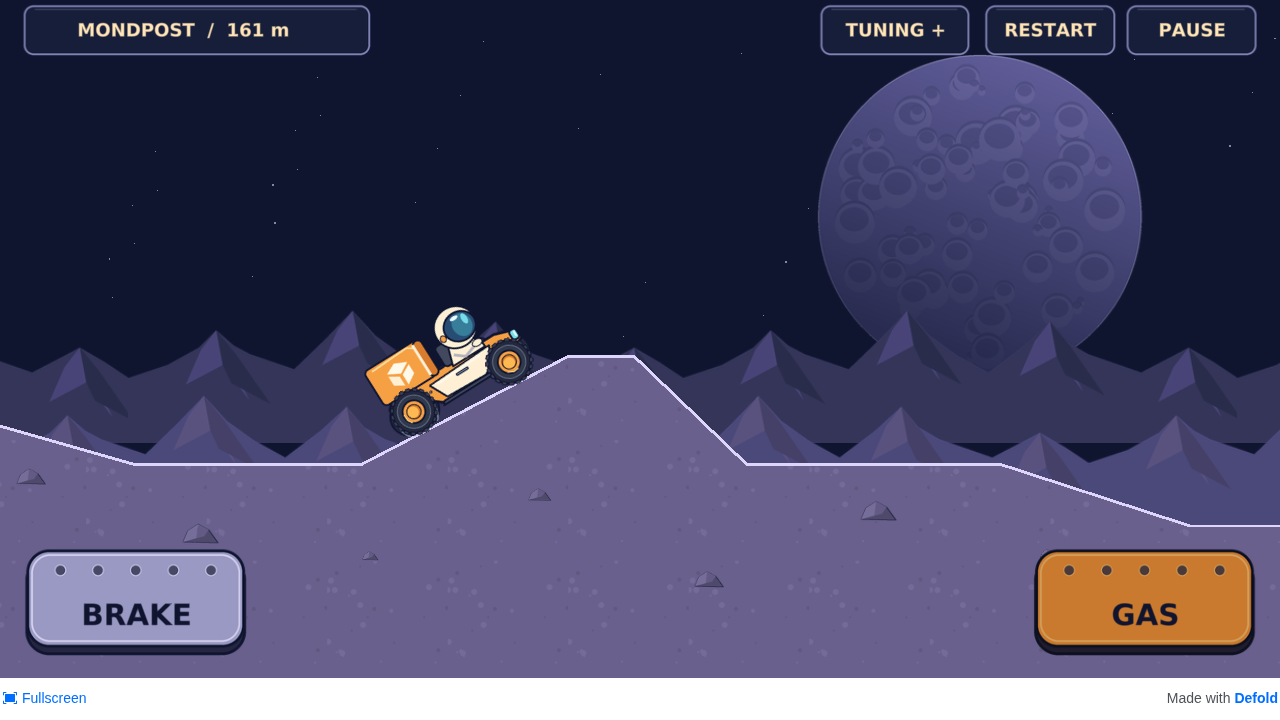
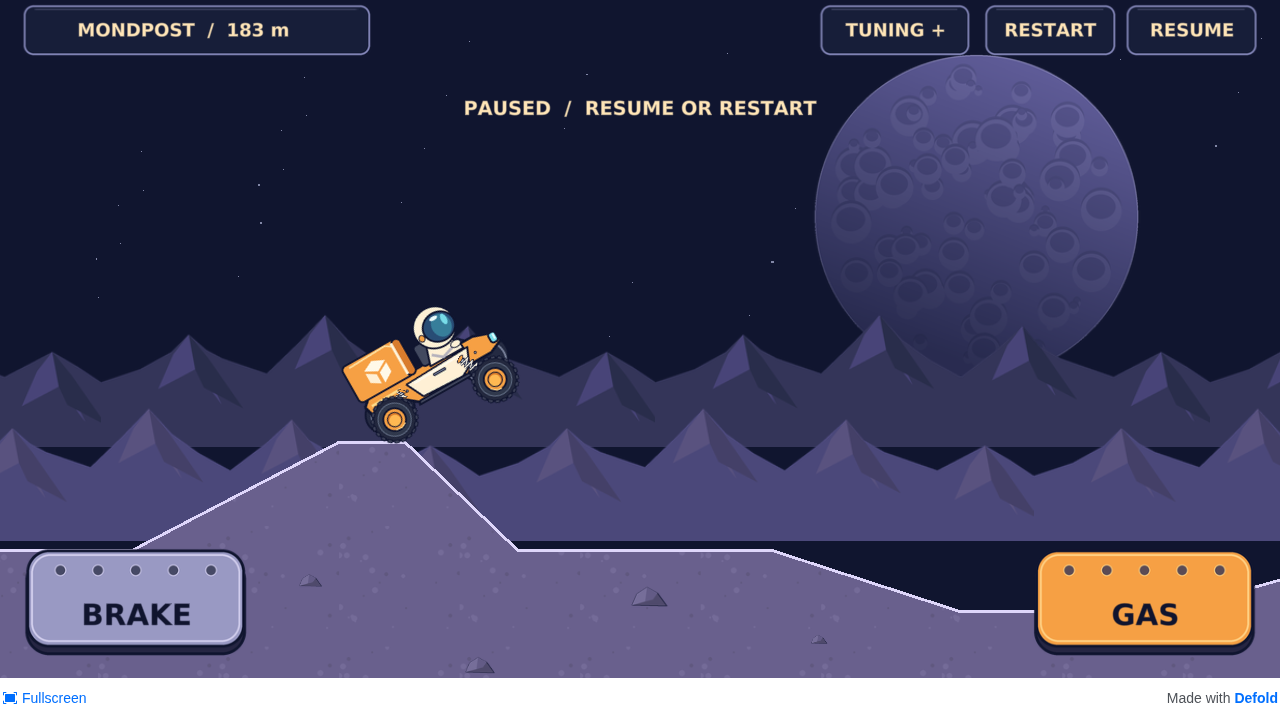
Verify visible springs, frozen review poses and compact tuning controls

diff --git a/main/spring.go b/main/spring.go
@@ -1,0 +1,1 @@
+components { id: "sprite" component: "/main/spring.sprite" }

diff --git a/docs/validation.md b/docs/validation.md
@@ -47,3 +47,17 @@ The migration changes tires to the v3 shape friction API and creates explicitly 
 Cloud build diagnosis: Bob's Extender client ignores HTTPS_PROXY and failed direct network access. The loopback bridge now uses the platform HTTPS proxy and verifies TLS to the fixed official build service. No verification was disabled. Empty outdated example-manifest fields rejected by the service were removed.
 
 Migration validation: all four checks passed on candidate 1cbf321 in GitHub run 38427440395. Local matching Playwright Headless Shell 156 then passed the complete regression: 342 m finish, 254 airborne fixed steps and six landings, moving suspension, air braking, repeated restarts, focus/pause/resume, tuning and simultaneous touch. The original local fixed-wall-time acceleration check was unstable with system Chromium and a full Chrome test binary under software rendering. Acceleration/braking now wait with bounded timeouts for the same motion thresholds; no thresholds or feature assertions were removed. Use Playwright's managed headless browser for matching local/CI results. Mobile performance and real-device feel remain open.
+
+## Mondpost visual correction (PR #12)
+
+Both owner concepts were visually inspected before asset work. Original downloads are unavailable; [reference observations/provenance](references/README.md) and [same-section comparisons](visual-review/README.md) record this distinction.
+
+Local checks passed: frozen-pose capture including compressed/extended springs, actual airborne pose and grounded touchdown; 1280×720, 1024×768 and 1920×864 layouts; open/collapsed top tuning and separate pressed-pedal images; no captured Lua/JavaScript errors. Final layout images include separated tuning-button hit boxes. Suspension extrema describe sampled frozen poses, not a forced physical travel limit.
+
+`npm ci`, all 25 Lua assertions, Renovate schema validation and its native stable-Defold extractor passed. The final debug HTML5 build and full managed-headless browser suite passed: acceleration/braking/both-pedal priority, physical air braking, spring travel, 342 m completion with 253 airborne steps and six landings, five restarts, pause/resume/focus loss, staged tuning/reset, independent emulated two-finger release and tablet/wide startup. These are automated browser checks and visual inspection of rendered captures; no interactive native editor or device test is claimed.
+
+Resolved during review: decoration initially exceeded the unchanged 128-sprite pool; its count was reduced. A stretched panel outline became nine-sliced. Coil springs gained a dedicated sprite resource and a visible layer between chassis and tires. Compact tuning needed new browser click coordinates; every behavior assertion was retained. Tuning buttons were shortened to remove overlapping hit boxes. Live screenshot readback advanced the vehicle during capture, so the normal pause key now freezes the pose before telemetry and image recording.
+
+Physics/body/collider/joint/default/input/camera/engine/dependency pins are unchanged from baseline `71df493`. The closed soil mesh shares the original track vertices; slab colliders retain their previous dimensions and placement. Final PR/main CI must also build production HTML5/debug Android and pass the four checks before deployment. Exact runs and publication verification are recorded on PR #12 and acceptance issue #5.
+
+Limits: artwork remains simpler than the painted references; original image files are not archived. Browser safe-area insets are zero. Android/iOS cutouts, physical touch, APK installation, driving feel and measured FPS require owner/device review. #5 remains open; no later gameplay starts.

diff --git a/docs/visual-review/README.md b/docs/visual-review/README.md
@@ -16,8 +16,8 @@ All paired images use the flat start, zero distance, settled rover, paused state
 ## Inspection evidence
 
 - [Compressed suspension](after/compression.png), [extended suspension](after/extension.png), [jump](after/jump.png), [touchdown](after/landing.png).
-- [Tablet tuning](after/tuning-1024.png), [wide tuning](after/tuning-1920.png), [pressed brake](after/brake-pressed.png). Gas is visibly darkened in motion captures.
-- [Recorded physical telemetry](after/observations.json) identifies observed suspension extrema and capture events. This is the largest observed compression during the captured default-track pass, not a forced mechanical travel limit; no joint stops or physics settings were added.
+- [Tablet tuning](after/tuning-1024.png), [wide tuning](after/tuning-1920.png), [pressed brake](after/brake-pressed.png). [Pressed gas](after/gas-pressed.png) shows the separate orange plate feedback.
+- [Recorded physical telemetry](after/observations.json) identifies observed suspension extrema and capture events. Movement captures pause through the normal key before screenshot readback; recorded telemetry describes that frozen pose. This is the most compressed frozen pose captured during this default-track pass, not a forced mechanical travel limit; no joint stops or physics settings were added.
 - `node tests/visual-review.cjs after` reproduces the capture sequence after a local debug HTML5 build. It drives through normal keys only and checks for runtime errors.
 
 The visible wheel centers rotate with their real bodies; tire radius and sprite pivot remain unchanged. Cosmetic diagonal spring endpoints follow chassis-local mounts and actual wheel centers on every render. Closed terrain triangles share the original surface vertices, and overlapping bright edge strokes avoid cracks. Rocks are beneath the driving edge. The ground texture has no baked segment border. The design stays within the original 128-sprite budget, including disabled collision-slab sprites and transient restart bodies.
